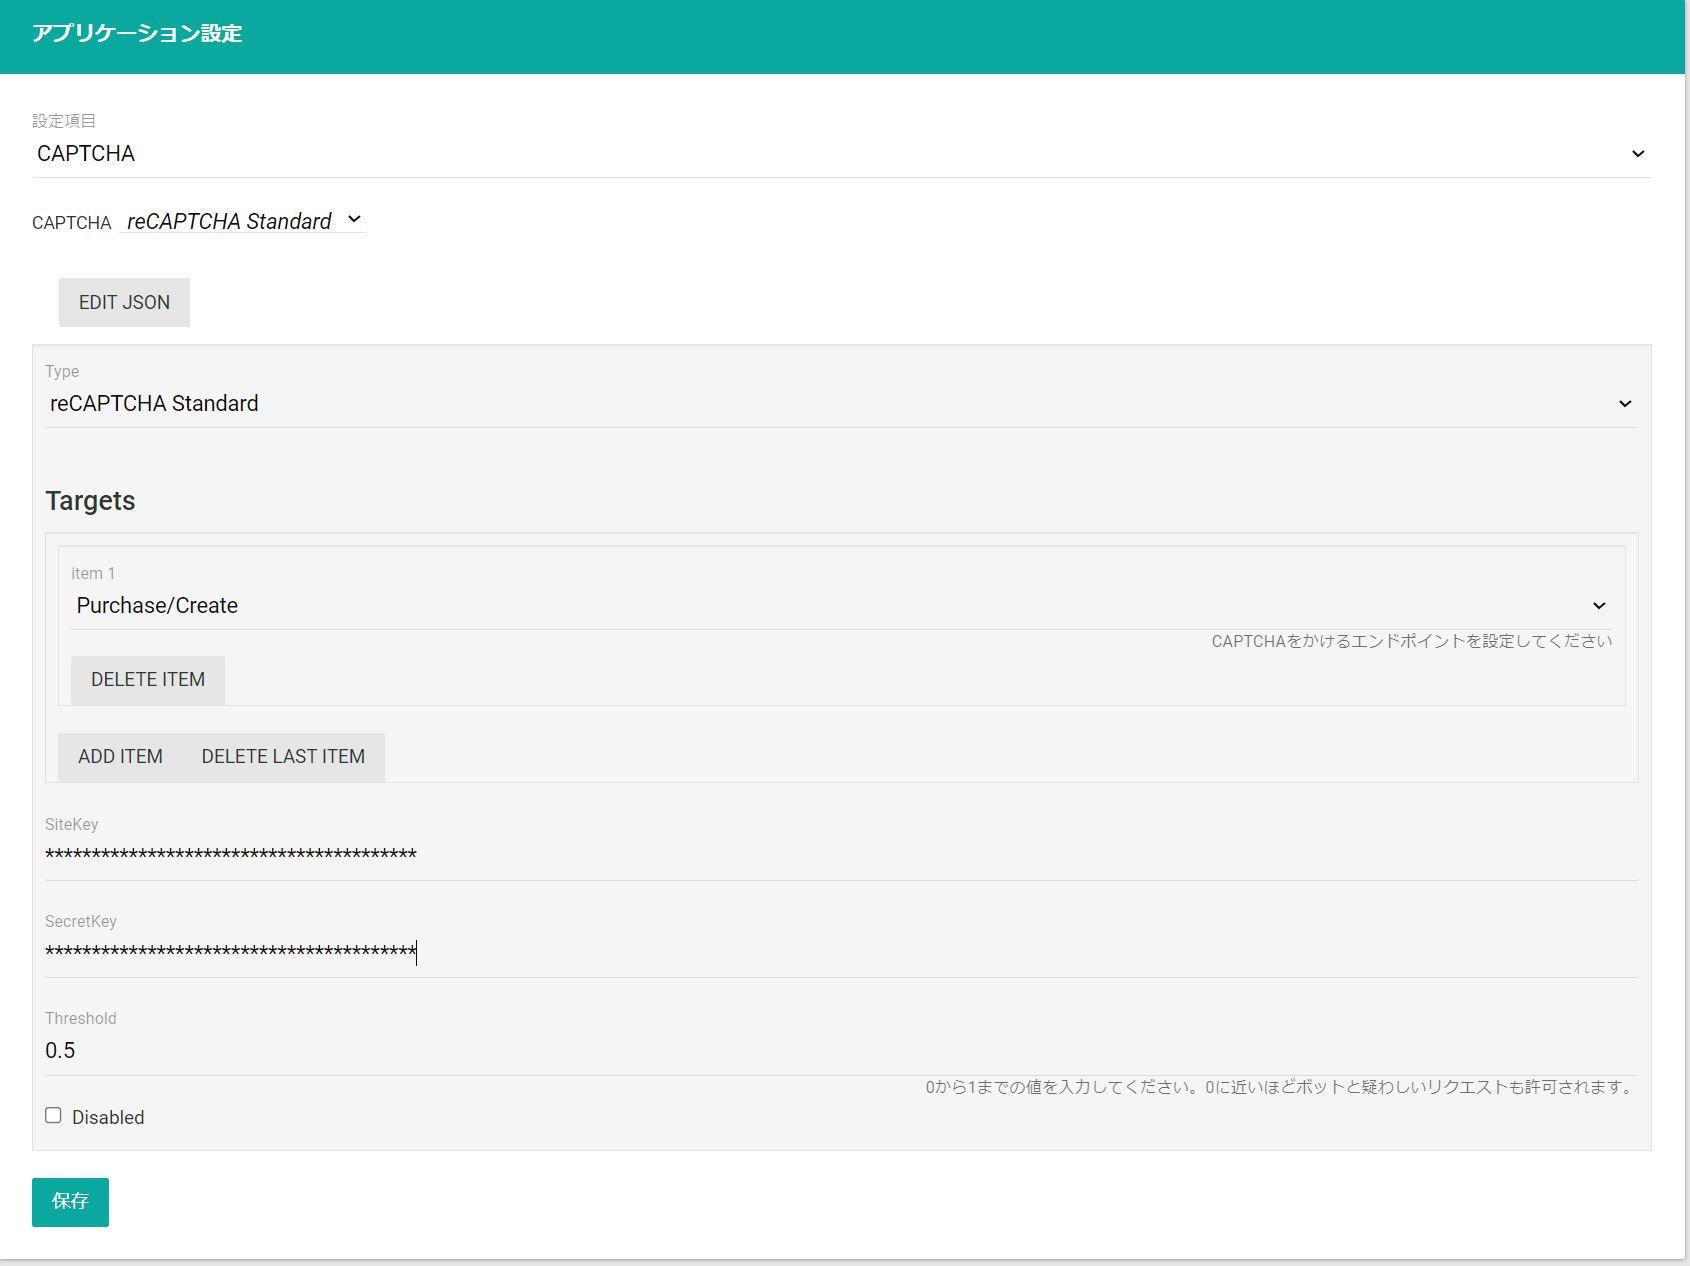
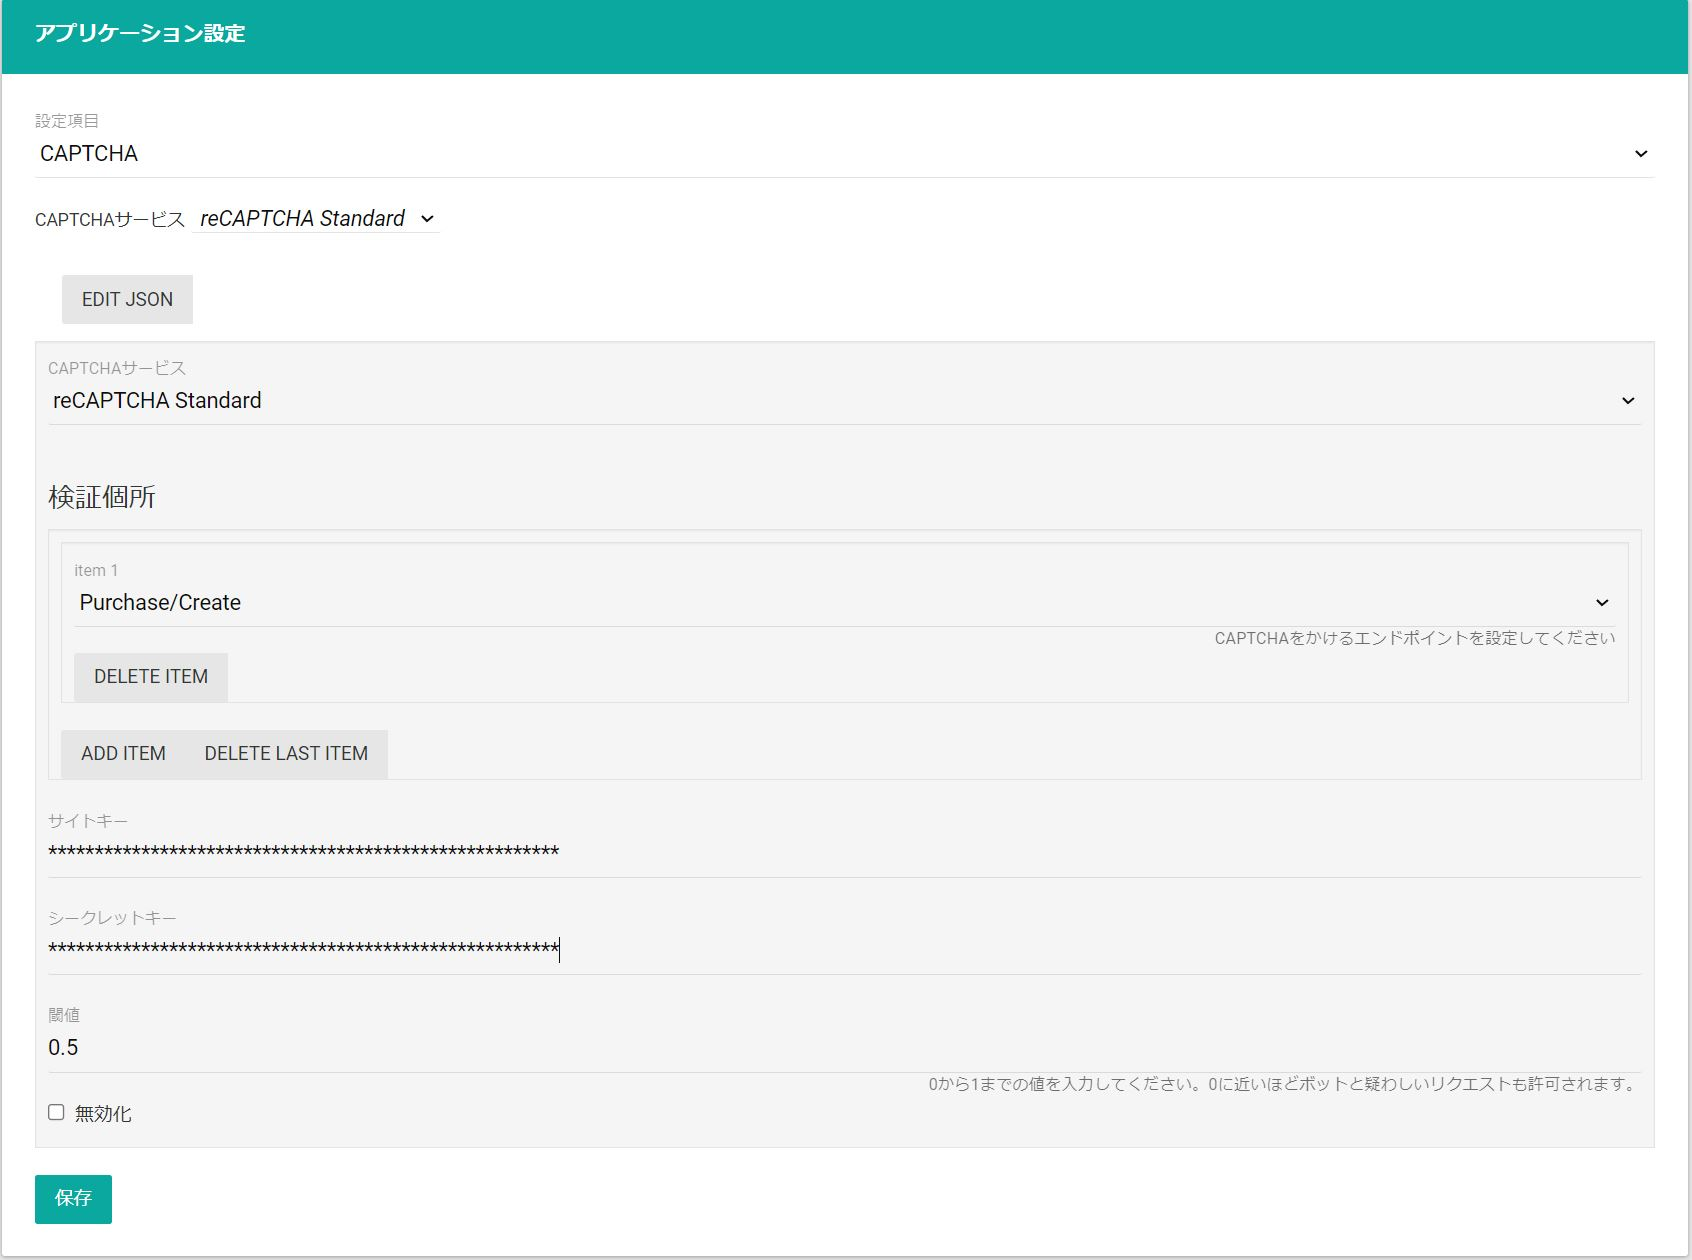
add labels to captcha setting fields

diff --git a/content/commerble/management/admin/ec/config/_index.md b/content/commerble/management/admin/ec/config/_index.md
@@ -30,20 +30,20 @@ description:
 
 CAPTCHAの各設定項目を次に示します。
 
-|    項目    |       CAPTCHA       |                                                説明                                                 |
-| :--------- | :-----------------: | :-------------------------------------------------------------------------------------------------- |
-| CAPTCHA    |          *          | 使用するCAPTCHAサービスを選択します。reCAPTCHA Essentialsの構成にはreCAPTCHA Standardを使用します。 |
-| Targets    |          *          | CAPTCHAチェックを行うエンドポイントを選択します。※対応は次表に示します。                            |
-| Threashold |          *          | リクエストを拒否する閾値を設定します。0に近いほどボットも含めて購入できるようになります。           |
-| Disabled   |          *          | CAPTCHAチェックを無効化します                                                                       |
-| SiteKey    | Standard/Enterprise | reCAPTCHAのサイトキーを設定します。                                                                 |
-| SecretKey  |      Standard       | reCAPTCHAのシークレットキーを設定します。                                                           |
-| ProjectId  |     Enterprise      | Google CloudのProject IDを設定します。                                                              |
-| ApiKey     |     Enterprise      | Google CloudのAPI Keyを設定します。                                                                 |
+|       項目       |       CAPTCHA       |                                                説明                                                 |
+| :--------------- | :-----------------: | :-------------------------------------------------------------------------------------------------- |
+| CAPTCHAサービス  |          *          | 使用するCAPTCHAサービスを選択します。reCAPTCHA Essentialsの構成にはreCAPTCHA Standardを使用します。 |
+| 検証個所         |          *          | CAPTCHAチェックを行うエンドポイントを選択します。※対応は次表に示します。                            |
+| 閾値             |          *          | リクエストを拒否する閾値を設定します。0に近いほどボットも含めて購入できるようになります。           |
+| 無効化           |          *          | CAPTCHAチェックを無効化します                                                                       |
+| サイトキー       | Standard/Enterprise | reCAPTCHAのサイトキーを設定します。                                                                 |
+| シークレットキー |      Standard       | reCAPTCHAのシークレットキーを設定します。                                                           |
+| プロジェクトID   |     Enterprise      | Google CloudのProject IDを設定します。                                                              |
+| APIキー          |     Enterprise      | Google CloudのAPI Keyを設定します。                                                                 |
 
 現在、使用可能なCAPTCHAサービスはGoogle reCAPTCHA V3 Essentials/Standard/Enterpriseとなります。[Cloudflare Turnstile](https://www.cloudflare.com/ja-jp/products/turnstile/) 等、Google reCAPTCHAとは異なるCAPTCHAサービスをご希望される場合はお問い合わせください。
 
-`Targets`には検証対象のエンドポイントを複数設定できます。例として、`Purchase/Create`と`Site/Login`を設定している場合は、注文確認画面の注文ボタンと、内部会員ログイン画面のログインボタンでCAPTCHAによる検証を実施できます。
+`検証個所`には検証対象のエンドポイントを複数設定できます。例として、`Purchase/Create`と`Site/Login`を設定している場合は、注文確認画面の注文ボタンと、内部会員ログイン画面のログインボタンでCAPTCHAによる検証を実施できます。
 
 |         Target         |        エンドポイント(`操作種別`)        |                   説明                   |
 | :--------------------- | :------------------------------------- | :--------------------------------------- |
